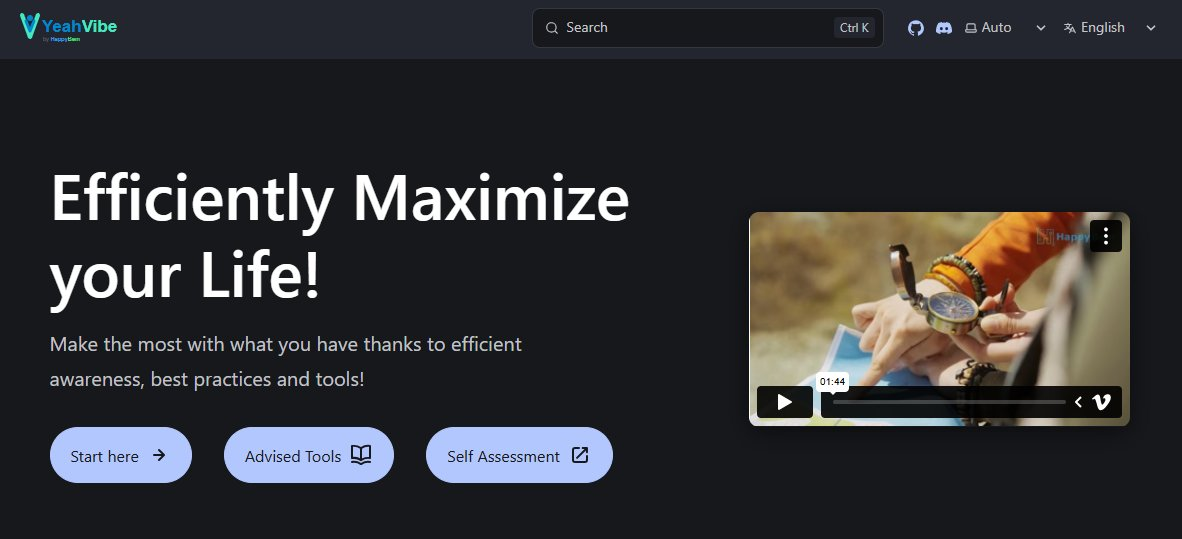
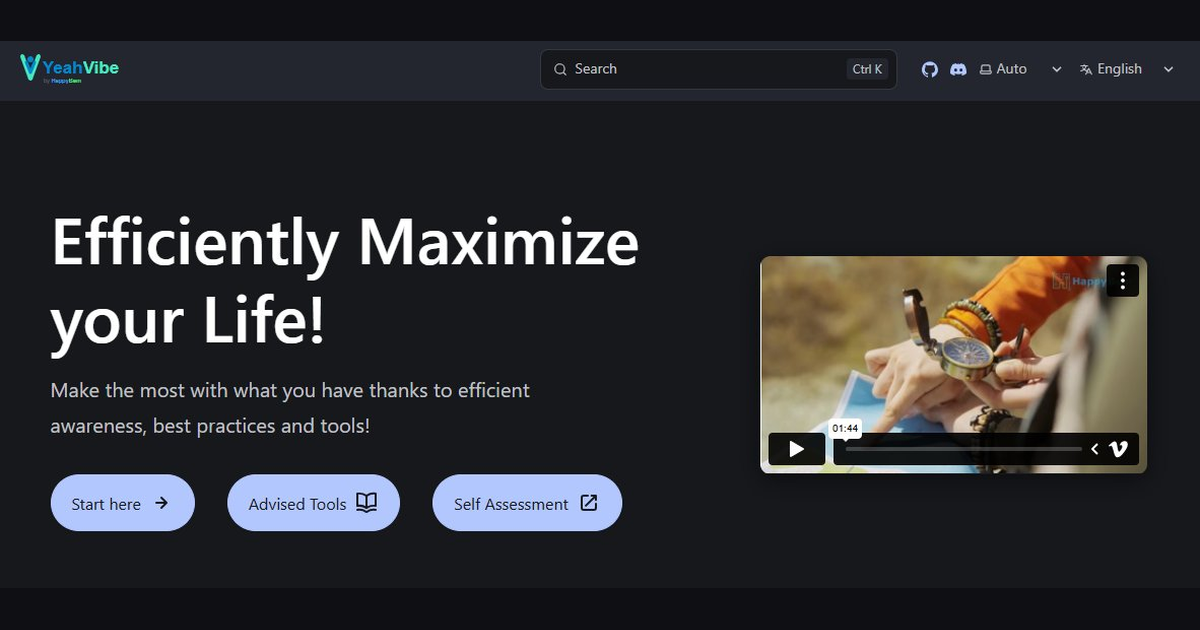
SEO + OG

diff --git a/src/version.ts b/src/version.ts
@@ -1,3 +1,3 @@
-export const SITE_VERSION = '1.3.5';
+export const SITE_VERSION = '1.3.6';
 export const SITE_VERSION_DATE = '2026-05-14';
-export const SITE_VERSION_NOTES = 'Removed black background from logo and favicon';
+export const SITE_VERSION_NOTES = 'Fixed OG image dimensions (1200x630); improved SEO meta tags, titles, keywords, and structured data';
